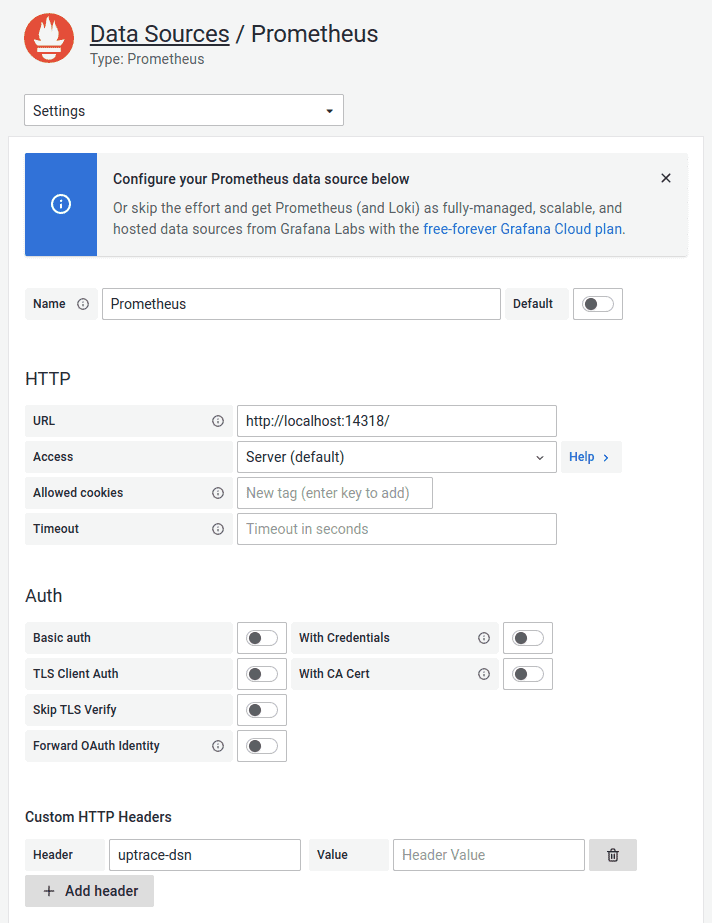
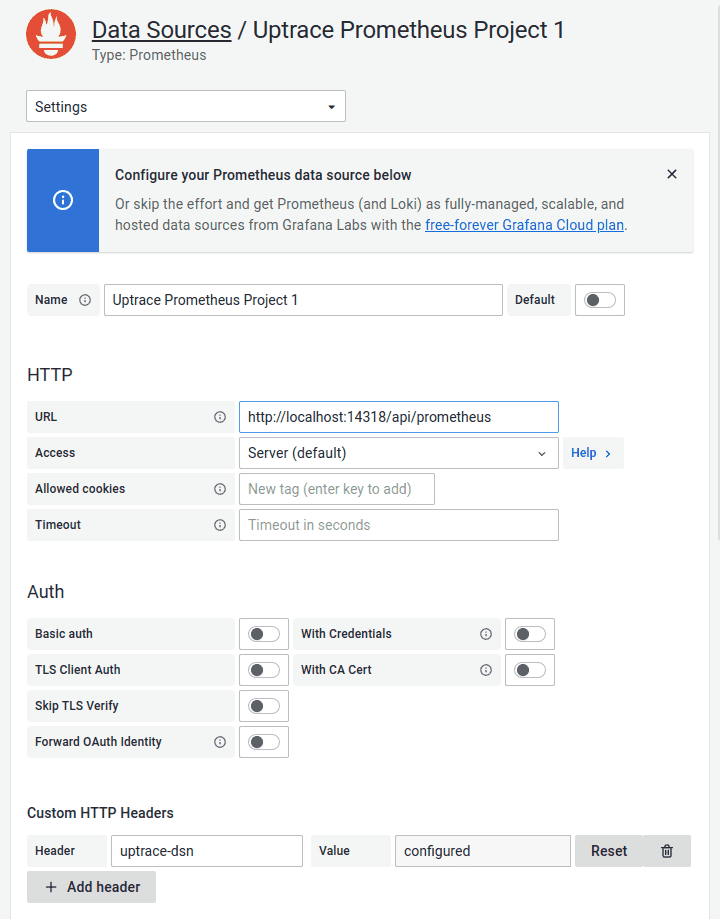
chore: update screenshots

diff --git a/vue/src/views/Metrics.vue b/vue/src/views/Metrics.vue
@@ -21,8 +21,7 @@
             <li>Click on "Add data source" and then select "Prometheus".</li>
             <li>
               As an URL, use Uptrace HTTP address, for example,
-              <code>{{ project.http.endpoint }}</code
-              >.
+              <code>{{ project.http.endpoint }}/api/prometheus</code>.
             </li>
             <li>In "Custom HTTP Headers" section, click "Add header".</li>
             <ul>
